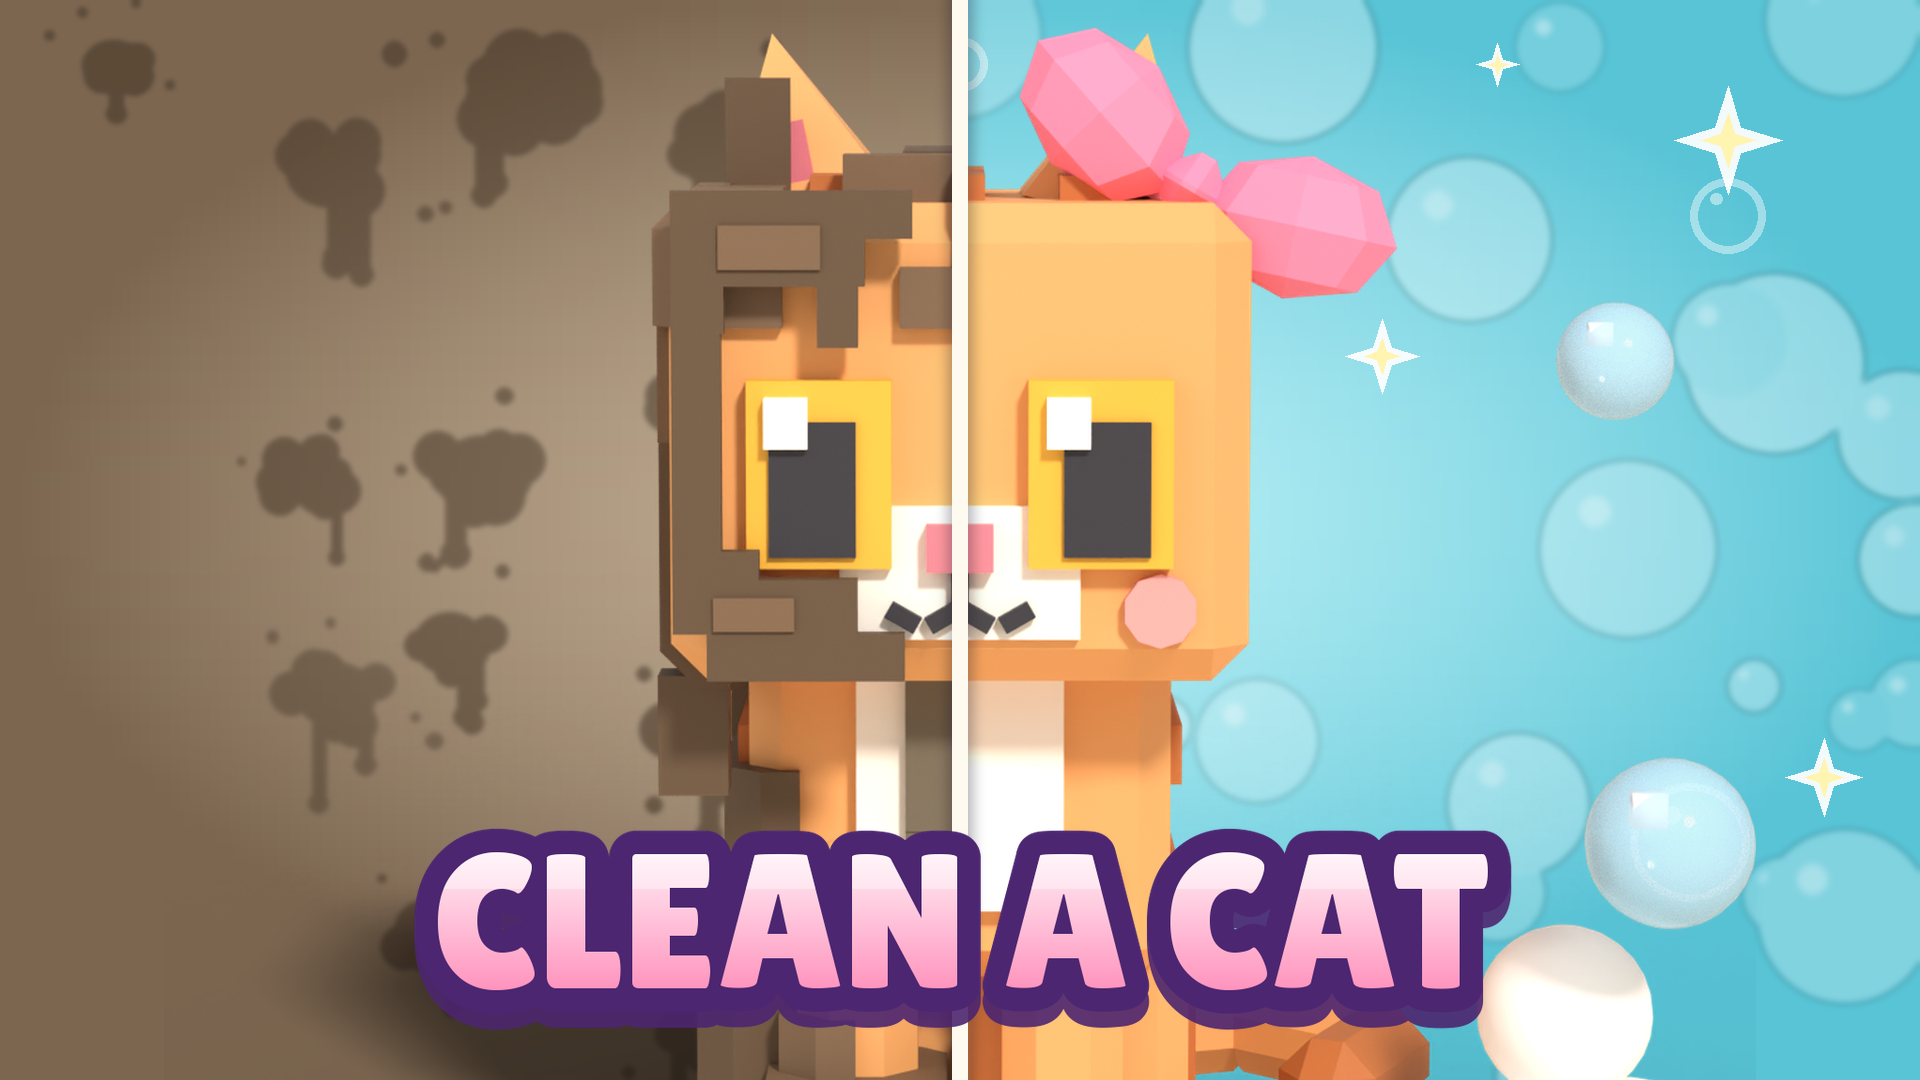
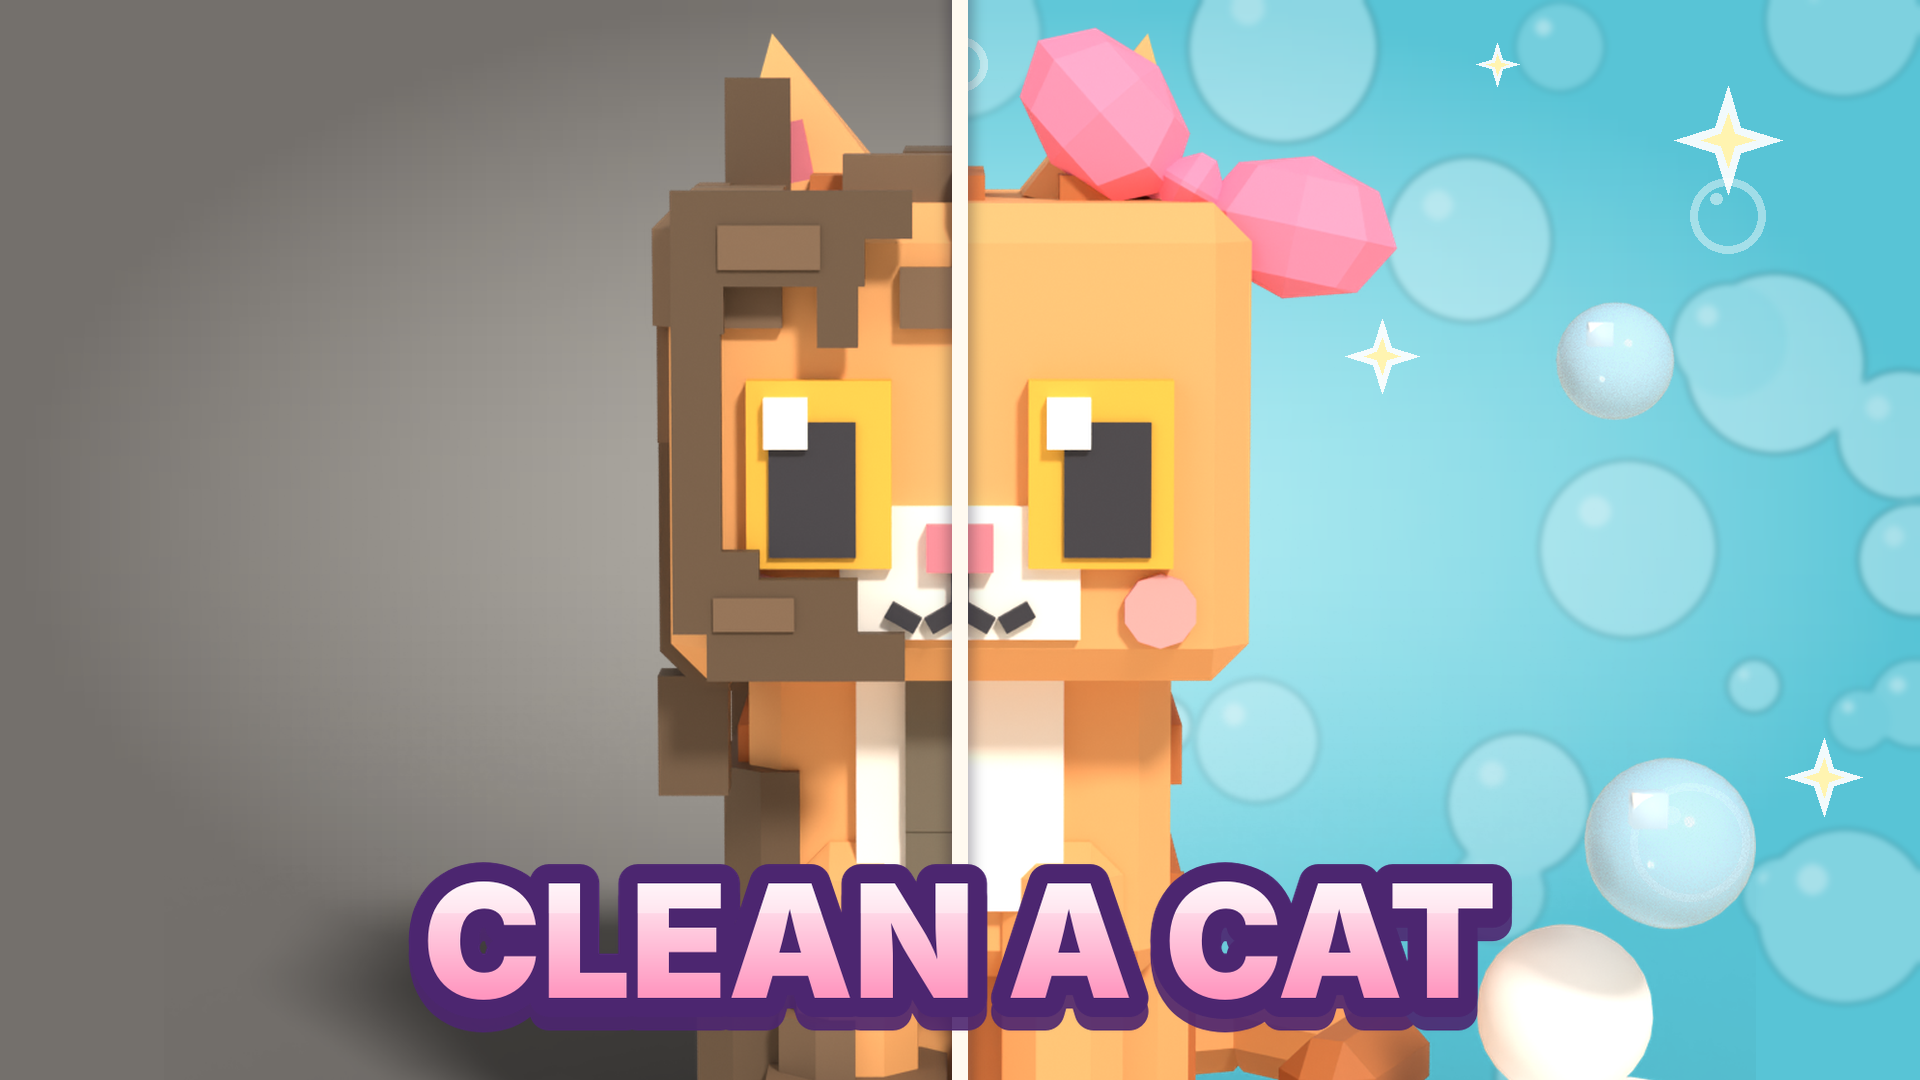
Store thumbnails 1 and 3 re-rendered for the image gate
Thumbnail 3 (busy spa): the staff's arms hang straight at their sides in
long smock sleeves that cover the hands, and Jo's standing shower pole is
left out. Thumbnail 1 (half muddy): no floating mud splats, so the mud is
only on the cat; the muddy half's glow is a cool dusty grey. Same names in
picked-2026-11-26, plus before and after sheets. Nothing uploaded.

Claude-Session: https://claude.ai/code/session_01DW2up1ahn23P9Rf5xanBXQ

diff --git a/assets/clean-a-cat/blender/store_art.py b/assets/clean-a-cat/blender/store_art.py
@@ -656,6 +656,32 @@ def thumb_lineup(mat, out, res):
 BUSY = (("Lou", "Cotton", "dirty"), ("Sam", "Muffin", "half"), ("Jo", "Sherbet", "plain"))
 
 
+def _stand_no_pole(ws, who, mat):
+    """A wash stand without a standing shower. Jo's shower pole read as a long rod held up beside a person, and the
+    image gate fails any long rounded shape (Review-QA, 2026-11-27), so the store art leaves it out. The plant and
+    the shelf stay."""
+    look = ws.LOOKS[who]
+    keep = look["tall"]
+    if keep != "shower":
+        return ws.build_stand(who, mat, grow=False)
+    ws.TALLS["_none"] = lambda _b, _top_b, _sw: None
+    look["tall"] = "_none"
+    try:
+        return ws.build_stand(who, mat, grow=False)
+    finally:
+        look["tall"] = keep
+        del ws.TALLS["_none"]
+
+
+def _staff_sleeved(spa_staff, who, mat):
+    """The staff for the store art: arms hanging straight at their sides in long smock sleeves that cover the hands,
+    so no hand and no bare forearm shows (image gate: no hands and no skin tone blobs, Review-QA 2026-11-27). The
+    game's staff keep their short sleeves and hands."""
+    import townsfolk
+    look = dict(spa_staff.LOOKS[who], short_sleeves=None, gloves=spa_staff.SMOCK)
+    return townsfolk.build_figure(spa_staff.PREFIX + who, look, mat, carry=False)
+
+
 def thumb_busy(mat, out, res):
     """Thumbnail: the busy spa. The three wash stands in front, each with a cat a step further along: a muddy one,
     one half washed and one clean. No bow on the clean cat: the owner, 2026-11-26, on a sky Royal bow tried there,
@@ -667,11 +693,11 @@ def thumb_busy(mat, out, res):
     objs = []
     for i, (who, cat, state) in enumerate(BUSY):
         x = (i - 1) * 4.7
-        stand = [o for o in ws.build_stand(who, mat, grow=False) if not o.name.endswith("_Barrier")]
+        stand = [o for o in _stand_no_pole(ws, who, mat) if not o.name.endswith("_Barrier")]
         _move(stand, (x, 0, 0))
         objs += _fresh(stand)
         objs += cat_state(cat, mat, "sit", state, (x + ws.BX, ws.BY, ws.SEAT), TUB_K)
-        staff = spa_staff.build_staff(who, mat)
+        staff = _staff_sleeved(spa_staff, who, mat)
         _move(staff, (x + 2.25, 3.4, 0), 1.0, -6 * (i - 1))
         objs += _fresh(staff)
     lo, hi = common.bounds(objs)

diff --git a/assets/clean-a-cat/blender/store_compose.py b/assets/clean-a-cat/blender/store_compose.py
@@ -306,13 +306,18 @@ def compose_spa(raw_dir, final=False, key="thumb-spa"):
 # The second thumbnail (#500; Derek 2026-11-25: yes to "a half dirty, half clean picture"): one cat, straight on, the
 # picture's left half muddy on a drab backdrop and its right half clean on the bubble backdrop, a thin line between.
 SPLIT_LINE = (255, 250, 240)
+MUD_SPLATS = False                                                # off for the image gate (2026-11-27)
 
 
 def mud_backdrop(size, seed=7):
-    """The muddy half's backdrop: a drab brown glow with soft mud splats. No stink wisps (Derek, 2026-11-25)."""
-    import random
+    """The muddy half's backdrop: a dull dusty glow, no splats. No stink wisps (Derek, 2026-11-25). The mud is only on
+    the cat: floating brown splats round it failed the image gate, and a tan field reads near a skin tone (Review-QA,
+    2026-11-27), so the glow is a cool dusty grey."""
     w, h = size
-    bg = backdrop_plain(size, (196, 176, 150), (124, 102, 80))
+    bg = backdrop_plain(size, (184, 180, 172), (116, 112, 108))
+    if not MUD_SPLATS:
+        return bg
+    import random
     layer = Image.new("RGBA", size, (0, 0, 0, 0))
     rnd = random.Random(seed)
     s = min(w, h)
